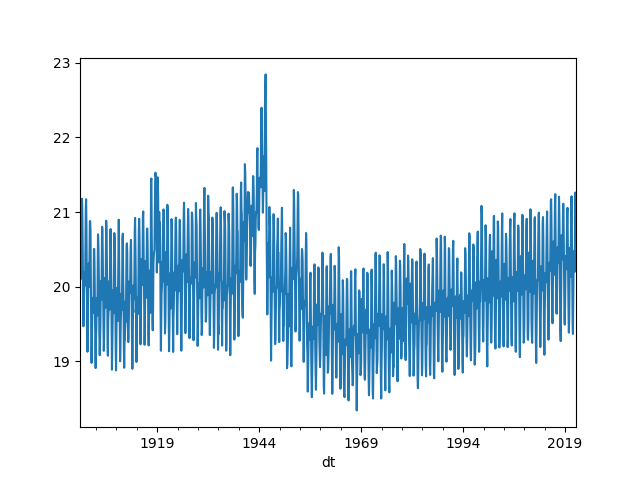
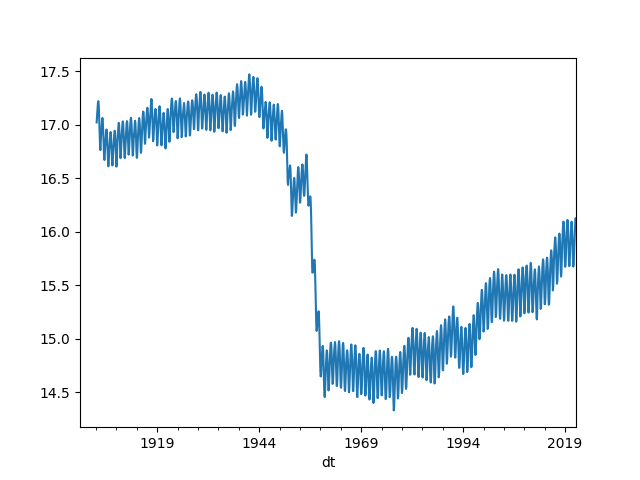
-

diff --git a/en/2015/08/climate.py b/en/2015/08/climate.py
@@ -15,83 +15,57 @@ import pandas as pd, gc, netCDF4, psutil
 import csv, numpy as np
 import matplotlib.pyplot as plt
 
-def preproc1():
-    url='/tmp/Land_and_Ocean_EqualArea.nc'
-    nc = netCDF4.Dataset(url)
-    clim = nc['climatology'][:,:]
-    anom =  nc['temperature'][:,:]
-    time =  nc['time'][:]
+url='/tmp/Complete_TAVG_EqualArea.nc'
+nc = netCDF4.Dataset(url)
+clim = nc['climatology'][:,:]
+anom =  nc['temperature'][:,:]
+time =  nc['time'][:]
 
-    dfclim = pd.DataFrame(clim.T)
-    pd.set_option('display.max_columns', None)
-    dfclim2 = dfclim.reset_index()
-    dfclim2 = pd.melt(dfclim2, id_vars=['index'])
-    dfclim2['variable'] = dfclim2['variable'] + 1
-    dfclim2 = dfclim2.set_index(['index','variable'])
+print (clim.shape)
+print (anom.shape)
+print (time.shape)
 
-    def year(float_year):
-        year = int(float_year)
-        return year
+def year(float_year):
+    year = int(float_year)
+    return year
 
-    def month(float_year):
-        month = int((float_year % 1) * 12)
-        return month
+def month(float_year):
+    month = int((float_year % 1) * 12)
+    return month
 
-    dftime = pd.DataFrame(time)
-    dftime['year'] = dftime.apply(lambda x: year(x[0]),axis=1)
-    dftime['mon'] = dftime.apply(lambda x: month(x[0]),axis=1)
-    dftime['mon'] = dftime['mon'] + 1
+monidxs = np.array(list(map(month, time)))
+print (monidxs[330])
+print (time[330])
 
-    dfanom = pd.DataFrame(anom.T)
-    dfanom = dfanom.reset_index()
-    dfanom2 = pd.melt(dfanom,id_vars=['index'])
+tmp_clims = np.zeros(time.shape[0])
+time_idxs = np.array(range(time.shape[0]))
+res = []
+for region in range(anom.shape[1]):
+    base_temps = clim[monidxs, region]
+    real_temps = base_temps + anom[:, region]
+    tmp = pd.Series(real_temps)
+    tmp = tmp.replace('--', np.nan)
+    res.append(list(tmp))
+    #if region==3: break
 
-    df1 = pd.merge(dfanom2, dftime, left_on='variable', right_index=True, how='left')
+arr = np.array(res)
+print (arr.shape)
+df = pd.DataFrame(res)
+print (df)
+print (df.shape)
 
-    df1.to_csv('/tmp/out1.csv',index=None)
-    dfclim2.to_csv('/tmp/clim.csv')
-    print ('stage 1 complete')
+avg = pd.DataFrame(df.median(axis=0))
+avg['year'] = avg.apply(lambda x: year(time[x.name]),axis=1)
+avg['mon'] = avg.apply(lambda x: month(time[x.name]),axis=1)
+avg['mon'] = avg['mon'] + 1
+avg['dt'] = avg.apply(lambda x: pd.to_datetime("%d-%02d-01" %(x.year,x.mon)), axis=1)
+avg = avg.set_index('dt')
+avg = avg[0]
+avg = avg[avg.index > '1900-01-01']  
+print (avg)
+print (avg.shape)
+avg = avg.rolling(50).mean()
+avg.plot()
+plt.savefig('berkeley-temp.png')
 
-def preproc2():
-    fout = open("/tmp/berkeley.csv","w")
 
-    dfclim = pd.read_csv('/tmp/clim.csv',index_col=['index','variable'])
-    dfclimdict = dfclim.to_dict()
-    print (dfclimdict['value'][(200,1)])
-
-    with open('/tmp/out1.csv') as csvfile:
-         rd = csv.reader(csvfile,delimiter=',')
-         headers = {k: v for v, k in enumerate(next(rd))}
-         print (headers)
-         for i,row in enumerate(rd):
-             key = ( int(row[headers['index']]), int(row[headers['mon']]))
-             if not row[headers['value']]: continue
-             if key in dfclimdict['value']:
-                mon = int(row[headers['mon']])          
-                year = int(row[headers['year']]) 
-                clim = dfclimdict['value'][key]            
-                anom = np.float( row[headers['value']] )
-                #print (year,mon,clim,anom)
-                #fout.write("%d,%d,%f,%f\n" % ((year,mon,clim,anom)))
-                fout.write("%d,%d,%f\n" % ((year,mon,clim+anom)))
-                fout.flush()
-
-    fout.close()
-    print ('stage 2 complete')
-
-def plot():
-    df = pd.read_csv('/tmp/berkeley.csv',header=None)
-    print (df)
-    avg = df.groupby([0,1]).median().reset_index()
-    avg['dt'] = avg.apply(lambda x: pd.to_datetime("%d-%02d-01" %(x[0],x[1])), axis=1)
-    avg = avg.set_index('dt')
-    print (avg)
-    avg = avg[avg.index > '1900-01-01']  
-    avg[2].plot()
-    plt.savefig('berkeley-temp.png')    
-    
-if __name__ == "__main__": 
-    #preproc1()
-    #preproc2()
-    plot()
-    
